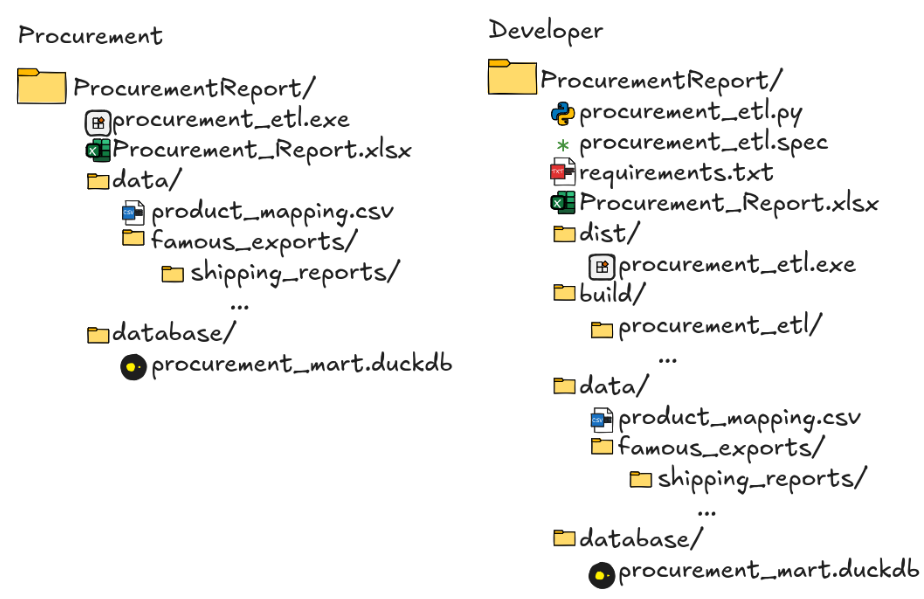
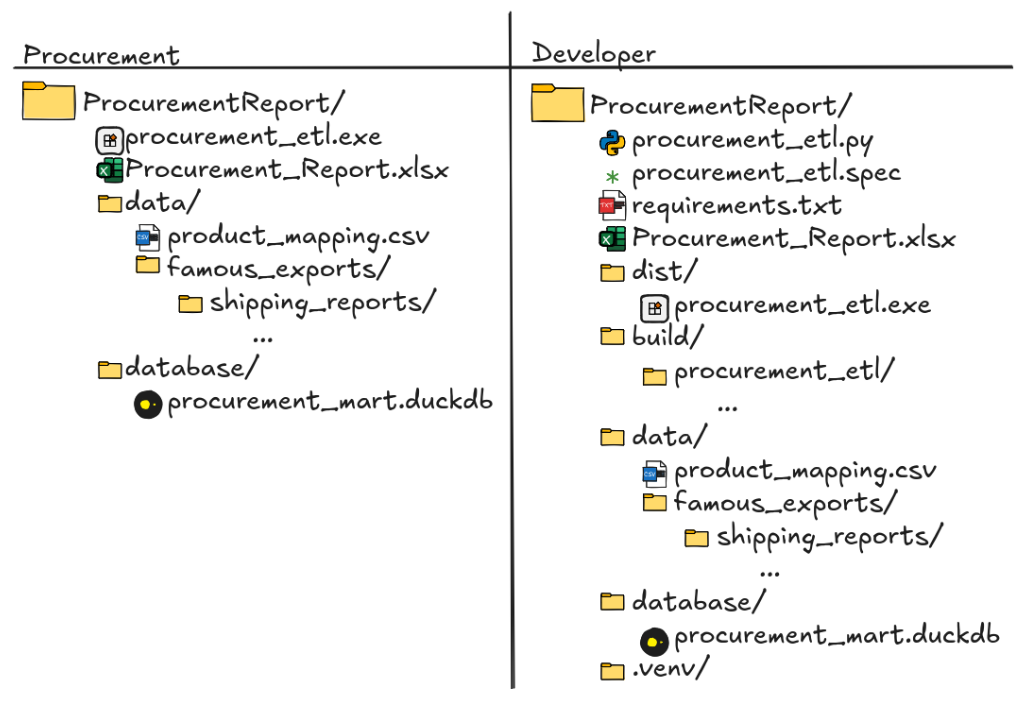
added troubleshooting information and fixed images

Changed region(s): [[0.0, 0.0301, 1.0, 0.9917], [0.5758, 0.601, 1.0, 0.9917]]

diff --git a/README.md b/README.md
@@ -111,8 +111,36 @@ python -m pip install -r requirements.txt
 after creating a ```.venv``` in project folder
 
 For building the executable use:
-```pyinstaller --onefile procurement_etl.py```  
+```powershell
+pyinstaller --onefile procurement_etl.py
+```  
 the generated executable will be available in the ```dist/``` directory
+
+## Troubleshooting
+
+### Report does not appear
+
+- has the report been created the first time around?
+- does the report have a different name now?
+
+### Product quantity looks wrong
+
+- are there missing files?
+- are there spelling/format mistakes in ```product_mapping.csv```?
+- are the correct ```weight``` and ```label``` values in ```product_mapping.csv```?
+
+### Excel does not update
+
+- has the ```procurement_mart.duckdb``` been moved or deleted?
+- is the ODBC DSN configured correctly? 
+- is the Power Query connection active?
+- have you tried a manual refresh? 
+
+### Executable cannot find files
+
+- have you changed the folder structure from what is depicted in [Project Structure](#project-structure)?
+- are the ```data/``` and ```database/``` folders present?
+- has the executable itself been removed?
 
 ## Known Limitations
 
